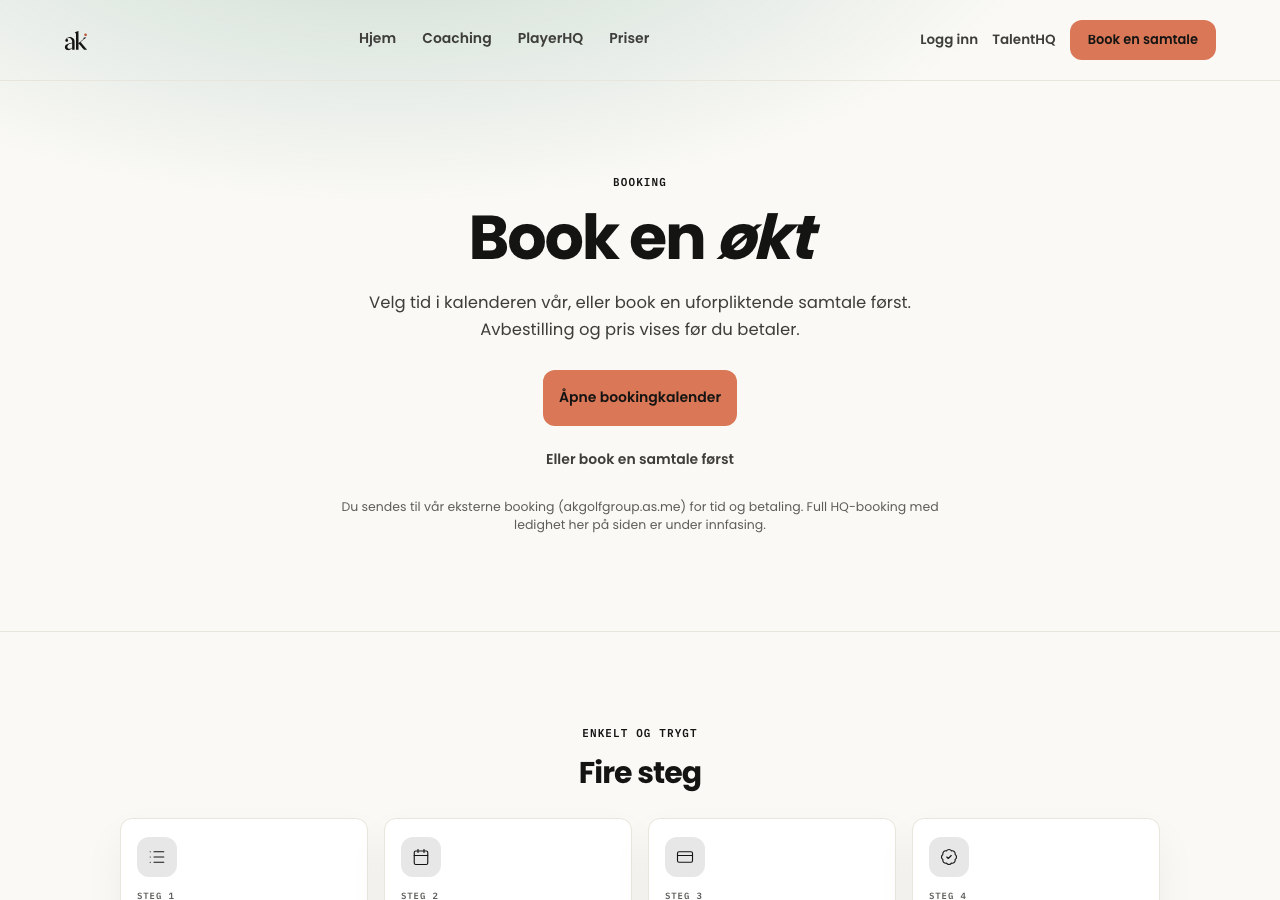
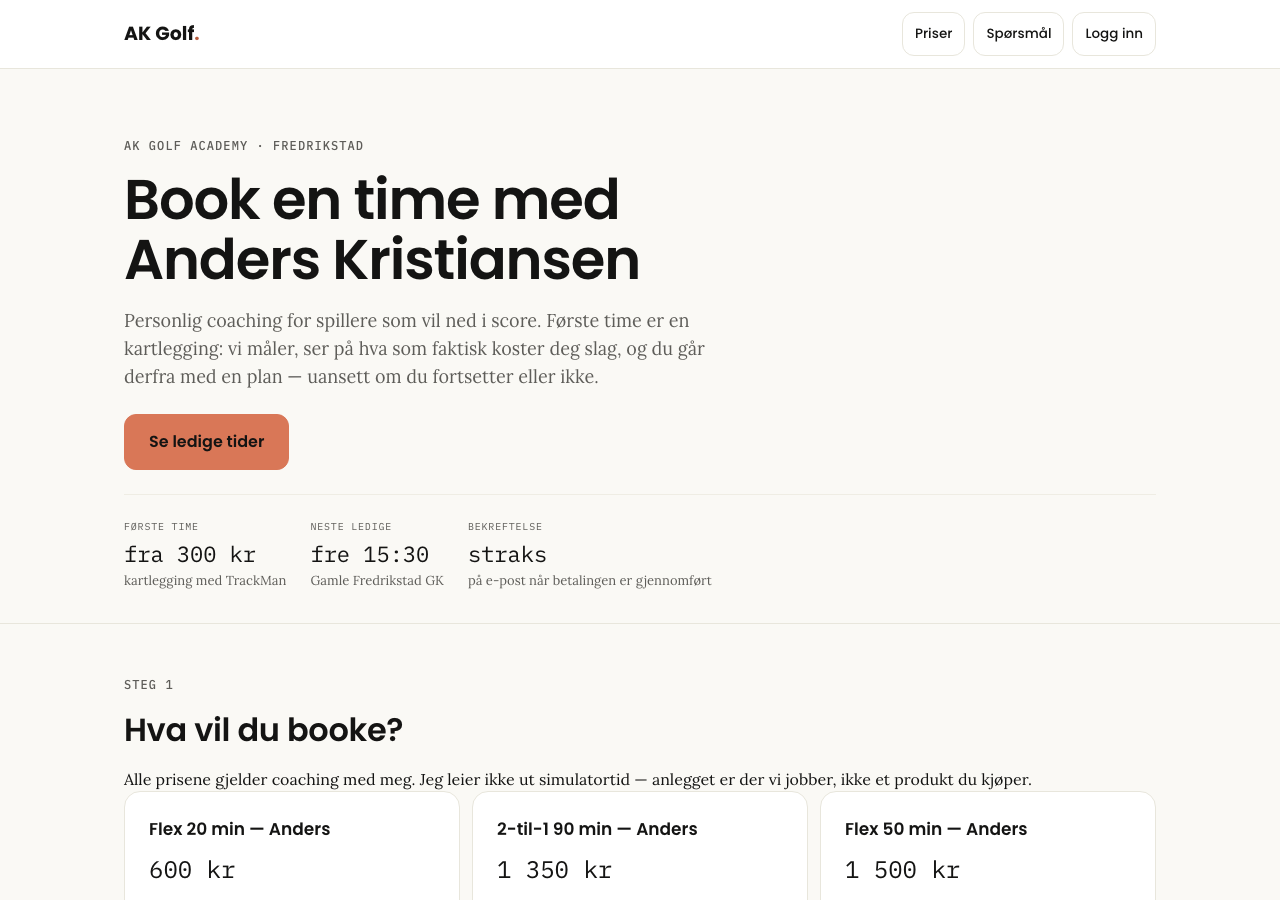
docs(port): booking.html signert av Anders 14.08 — PP-1.7 [x]
Fotografert mot lokalt miljø med BOOKING_PUBLIC=true (prod urørt, viser
fortsatt Acuity med vilje). Ingen ny drift mot fasit — kun de tre kjente
bevisste avvikene fra PR #391 (Stripe beholdt, per-spiller i undertekst,
Ta kontakt om abonnement).

diff --git a/docs/port/PAPER-ZIP-CHECKLIST.md b/docs/port/PAPER-ZIP-CHECKLIST.md
@@ -24,7 +24,7 @@
 - [~] `agencyos-okonomi.html`
 - [x] `agencyos-spillere-mobil.html` — PP-2.3 signert av Anders 13.08.2026 (galleri mot prod)
 - [x] `agencyos-spillere.html` — PP-2.3 signert av Anders 13.08.2026 (galleri mot prod)
-- [~] `booking.html` — PP-1.7 READY_SIGN. Kan ikke signeres mot prod før BOOKING_PUBLIC slås på (prod viser interim-siden med vilje, jf. #431) — designet ligger ferdig bak bryteren
+- [x] `booking.html` — PP-1.7 signert av Anders 14.08.2026 (galleri mot lokalt miljø med BOOKING_PUBLIC=true; prod viser fortsatt Acuity med vilje inntil bryteren slås på i egen beslutning)
 - [x] `fangstsheet.html` — B2-fangst signert av Anders 14.08.2026 (galleri mot prod, arket åpnet via klikk)
 - [x] `foreldreportal.html` — B2-forelder signert av Anders 14.08.2026 (galleri mot prod, innlogget test-forelder)
 - [x] `innlogging.html` — PP-1.6 signert av Anders 13.08.2026 (galleri mot prod)
